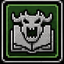
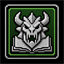
Odśwież ikonę Bestiariusza

diff --git a/YssPack.user.js b/YssPack.user.js
@@ -1,7 +1,7 @@
 // ==UserScript==
 // @name         YssPack
 // @namespace    acesaff-ysspack
-// @version      0.15.86
+// @version      0.15.87
 // @description  YssPack — panel dodatków działający bezpośrednio w Margonem.
 // @author       Król Yss
 // @homepageURL  https://www.margonem.pl/profile/view,10050726#char_5601,luvia
@@ -31,7 +31,7 @@
   if (document.yssPack?.loaderVersion) return;
 
   const BASE_URL = 'https://acesafff-ship-it.github.io/ysspack/';
-  const LOADER_VERSION = '0.15.86';
+  const LOADER_VERSION = '0.15.87';
   const onMainSite = location.hostname === 'www.margonem.pl';
   if (onMainSite && !/^\/ladder(?:\/[^/]+)?(?:\/players)?\/?$/i.test(location.pathname)) return;
   const now = new Date();

diff --git a/pack.js b/pack.js
@@ -4,7 +4,7 @@ if (!host || document.querySelector('#ysspack')) {
   throw new Error('[YssPack] Loader nie jest aktywny albo panel został już uruchomiony.');
 }
 
-const PACK_VERSION = '0.15.86';
+const PACK_VERSION = '0.15.87';
 const UPDATE_MANIFEST_URL = new URL('manifest.json', import.meta.url).href;
 const UPDATE_INSTALL_URL = new URL('YssPack.user.js', import.meta.url).href;
 const STORAGE_PREFIX = 'ysspack_';
